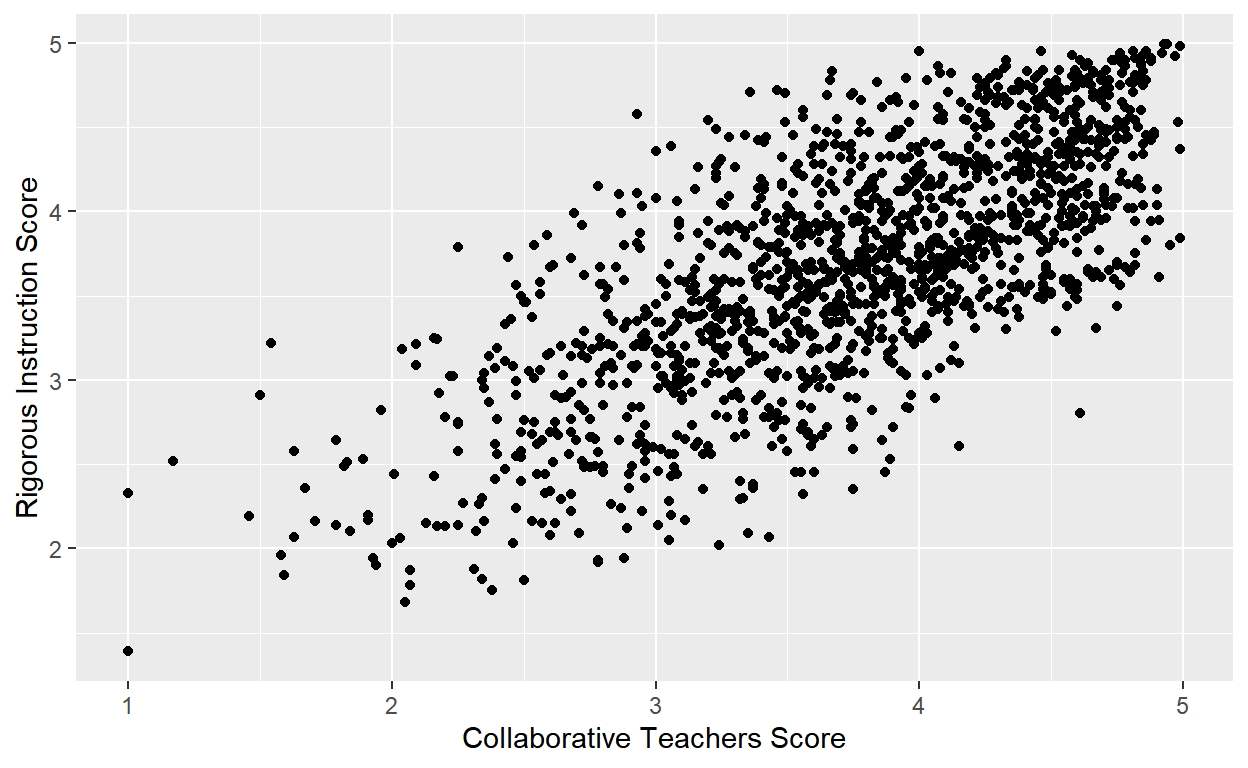
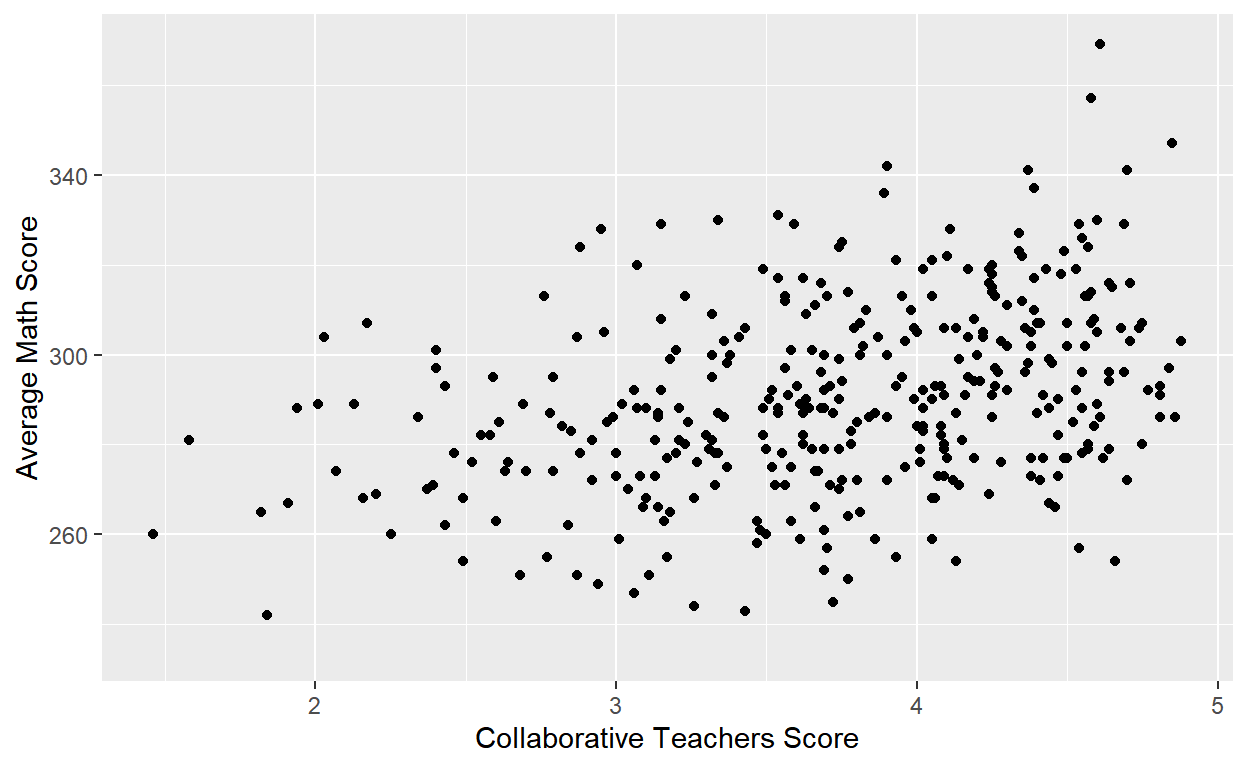
milestone 4

diff --git a/index.html b/index.html
@@ -1520,10 +1520,11 @@ code span.wa { color: #5e5e5e; font-style: italic; } /* Warning */
 <h2 id="project-thoughts">Project thoughts</h2>
 <p>In education, there are conversations surrounding what contributes most to student success. NYC department of education has open testing data, teacher survey data and demographic data at the school level that I would like to investigate particularly in relation to math scores.</p>
 <h2 id="proposal">Proposal</h2>
-<p>What affects student success in math? For this data analysis, I’m interested in working with multiple data sets from the New York City Department of Education including the 2017 School Math results, the school level demographic snapshot and the public teacher data files. There are many items that could affect student outcomes. I want to specifically look at the impact of teacher expertise on math outcomes while holding for effectiveness of administration as well as the poverty rate of the school. My outcome variable would be 2017 math scores on the school level. There are a range of possible levels, but possible scores range from 134-400 My predictor variable would be teacher effectiveness scores measured on a scale from 1-10. I want to run a multiple regression as variables in education are usually intertwined. For example, teaching a high percentage of English Language Learners might affect how students complete complicate state test word problems. Holding these covariants constant and still seeing a statistically significant association would be convincing evidence.</p>
+<p>What is correlated with student success in math? For this data analysis, I’m interested in working with multiple data sets from the New York City Department of Education including the 2017 School Math results, the school level demographic snapshot and the public teacher data files. As many classroom teachers know, there are multiple factors that can correlate with student success, beyond instruction in the classroom. I want to specifically look at the relationship between “collaborative” teachers with regards to math outcomes while holding for possible confounding variables that might obscure this relationship. My outcome variable would be 2017 math scores on the school level. There are a range of possible levels which range from 134-400. My predictor variable would be collaborative teacher scores measured on a scale from 1-10. I want to run a multiple regression as variables in education are usually intertwined. For example, teaching a high percentage of English Language Learners might affect how students complete complicated state test word problems. Holding these covariants constant and still seeing a statistically significant association would be convincing evidence.</p>
 <div class="layout-chunk" data-layout="l-body">
 <div class="sourceCode">
-<pre class="sourceCode r"><code class="sourceCode r"><span><span class='kw'><a href='https://rdrr.io/r/base/library.html'>library</a></span><span class='op'>(</span><span class='va'><a href='https://tidyverse.tidyverse.org'>tidyverse</a></span><span class='op'>)</span></span>
+<pre class="sourceCode r"><code class="sourceCode r"><span><span class='kw'><a href='https://rdrr.io/r/base/library.html'>library</a></span><span class='op'>(</span><span class='va'><a href='https://github.com/daattali/ggExtra'>ggExtra</a></span><span class='op'>)</span></span>
+<span><span class='kw'><a href='https://rdrr.io/r/base/library.html'>library</a></span><span class='op'>(</span><span class='va'><a href='https://tidyverse.tidyverse.org'>tidyverse</a></span><span class='op'>)</span></span>
 <span><span class='kw'><a href='https://rdrr.io/r/base/library.html'>library</a></span><span class='op'>(</span><span class='va'><a href='https://ggplot2.tidyverse.org'>ggplot2</a></span><span class='op'>)</span></span>
 <span><span class='kw'><a href='https://rdrr.io/r/base/library.html'>library</a></span><span class='op'>(</span><span class='va'><a href='https://svn.r-project.org/R-packages/trunk/foreign/'>foreign</a></span><span class='op'>)</span></span>
 <span></span>
@@ -1643,12 +1644,12 @@ code span.wa { color: #5e5e5e; font-style: italic; } /* Warning */
 <span><span class='va'>teachers</span><span class='op'>$</span><span class='va'>Rigorous.Instruction.Score</span> <span class='op'>&lt;-</span> <span class='fu'><a href='https://rdrr.io/r/base/numeric.html'>as.numeric</a></span><span class='op'>(</span><span class='va'>teachers</span><span class='op'>$</span><span class='va'>Rigorous.Instruction.Score</span><span class='op'>)</span></span>
 <span></span>
 <span></span>
-<span><span class='va'>teacher.effectiveness</span> <span class='op'>&lt;-</span> <span class='va'>teachers</span> <span class='op'><a href='https://magrittr.tidyverse.org/reference/pipe.html'>%&gt;%</a></span> </span>
+<span><span class='va'>teacher.effectiveness</span> <span class='op'>&lt;-</span> <span class='va'>math_sub</span> <span class='op'><a href='https://magrittr.tidyverse.org/reference/pipe.html'>%&gt;%</a></span> </span>
 <span>  <span class='fu'><a href='https://ggplot2.tidyverse.org/reference/ggplot.html'>ggplot</a></span><span class='op'>(</span>mapping <span class='op'>=</span> <span class='fu'><a href='https://ggplot2.tidyverse.org/reference/aes.html'>aes</a></span><span class='op'>(</span>x <span class='op'>=</span> <span class='va'>Collaborative.Teachers.Score</span>,</span>
-<span>                       y <span class='op'>=</span> <span class='va'>Rigorous.Instruction.Score</span><span class='op'>)</span><span class='op'>)</span> <span class='op'>+</span></span>
+<span>                       y <span class='op'>=</span> <span class='va'>Mean.Scale.Score</span><span class='op'>)</span><span class='op'>)</span> <span class='op'>+</span></span>
 <span>  <span class='fu'><a href='https://ggplot2.tidyverse.org/reference/geom_point.html'>geom_point</a></span><span class='op'>(</span><span class='op'>)</span> <span class='op'>+</span></span>
 <span>  <span class='fu'><a href='https://ggplot2.tidyverse.org/reference/labs.html'>labs</a></span><span class='op'>(</span>x <span class='op'>=</span> <span class='st'>"Collaborative Teachers Score"</span>,</span>
-<span>       y <span class='op'>=</span> <span class='st'>"Rigorous Instruction Score"</span><span class='op'>)</span></span>
+<span>       y <span class='op'>=</span> <span class='st'>"Average Math Score"</span><span class='op'>)</span> </span>
 <span></span>
 <span><span class='va'>teacher.effectiveness</span></span></code></pre>
 </div>
@@ -1723,8 +1724,18 @@ Residual standard error: 17.11 on 355 degrees of freedom
   (87 observations deleted due to missingness)
 Multiple R-squared:  0.3505,    Adjusted R-squared:  0.3432 
 F-statistic:  47.9 on 4 and 355 DF,  p-value: &lt; 2.2e-16</code></pre>
+<div class="sourceCode">
+<pre class="sourceCode r"><code class="sourceCode r"><span><span class='fu'><a href='https://rdrr.io/r/stats/confint.html'>confint</a></span><span class='op'>(</span><span class='va'>fit.controls</span><span class='op'>)</span></span></code></pre>
 </div>
-<div class="sourceCode" id="cb3"><pre class="sourceCode r distill-force-highlighting-css"><code class="sourceCode r"></code></pre></div>
+<pre><code>                                      2.5 %       97.5 %
+(Intercept)                     295.2975355 324.77147200
+Collaborative.Teachers.Score      3.7901468   9.08276864
+X..Poverty.1                     -0.3569089  -0.14176344
+X..English.Language.Learners.1   -0.2326585   0.09639832
+X..Students.with.Disabilities.1  -1.3764401  -0.81106795</code></pre>
+</div>
+<p>In the fitted model with the controls we can see there is a positive association between the teacher collaborative score and average math score. An increase in a collaborative score of 1 unit would predict a six point difference in resulting math scores. Our p value is below .01 which means we have enough evidence to reject the null hypothesis of no association.</p>
+<div class="sourceCode" id="cb4"><pre class="sourceCode r distill-force-highlighting-css"><code class="sourceCode r"></code></pre></div>
 <!--radix_placeholder_article_footer-->
 <!--/radix_placeholder_article_footer-->
 </div>
